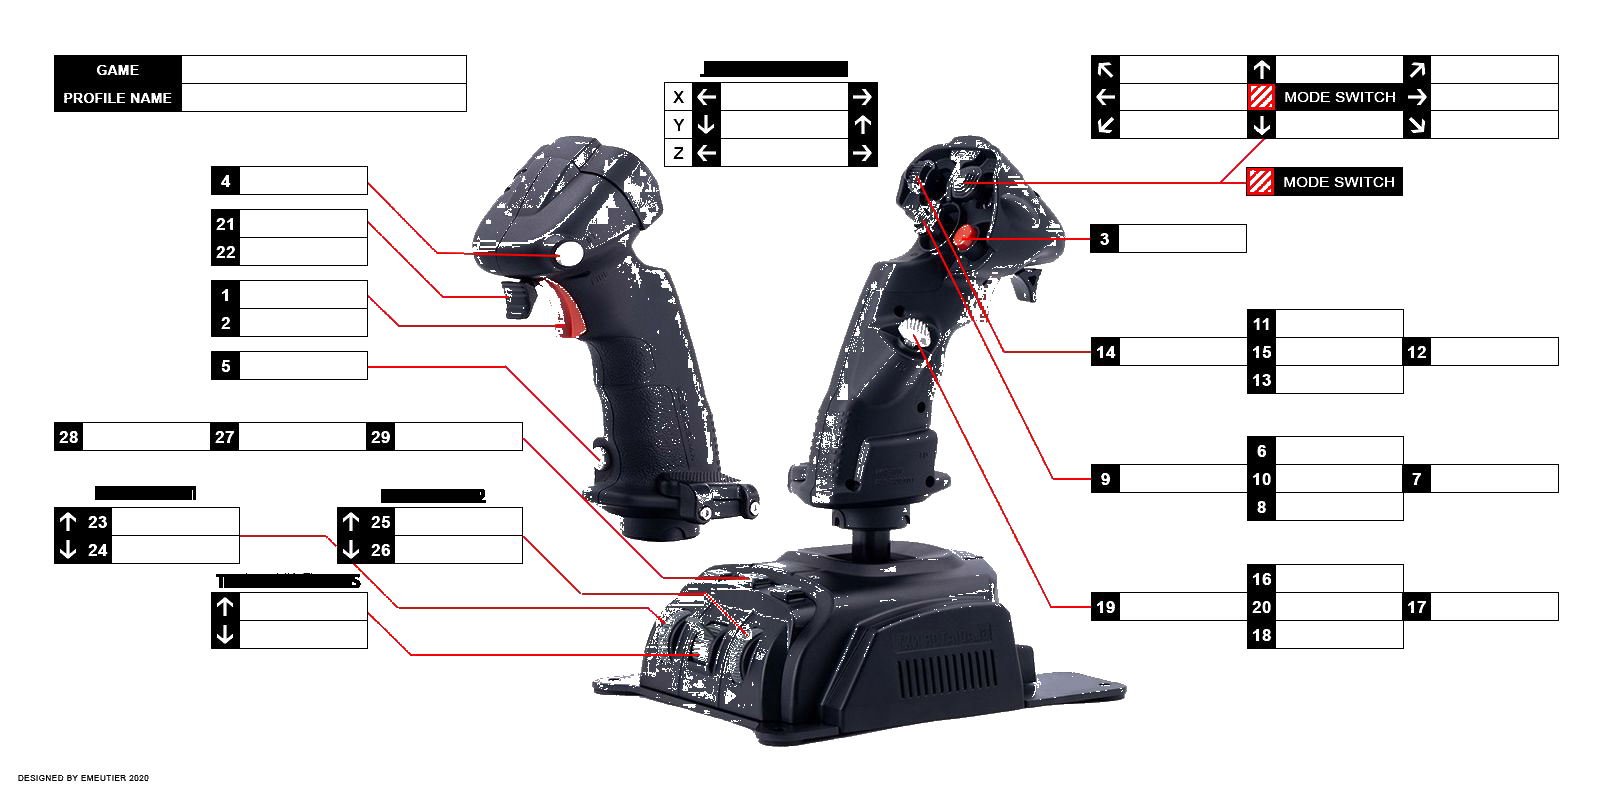
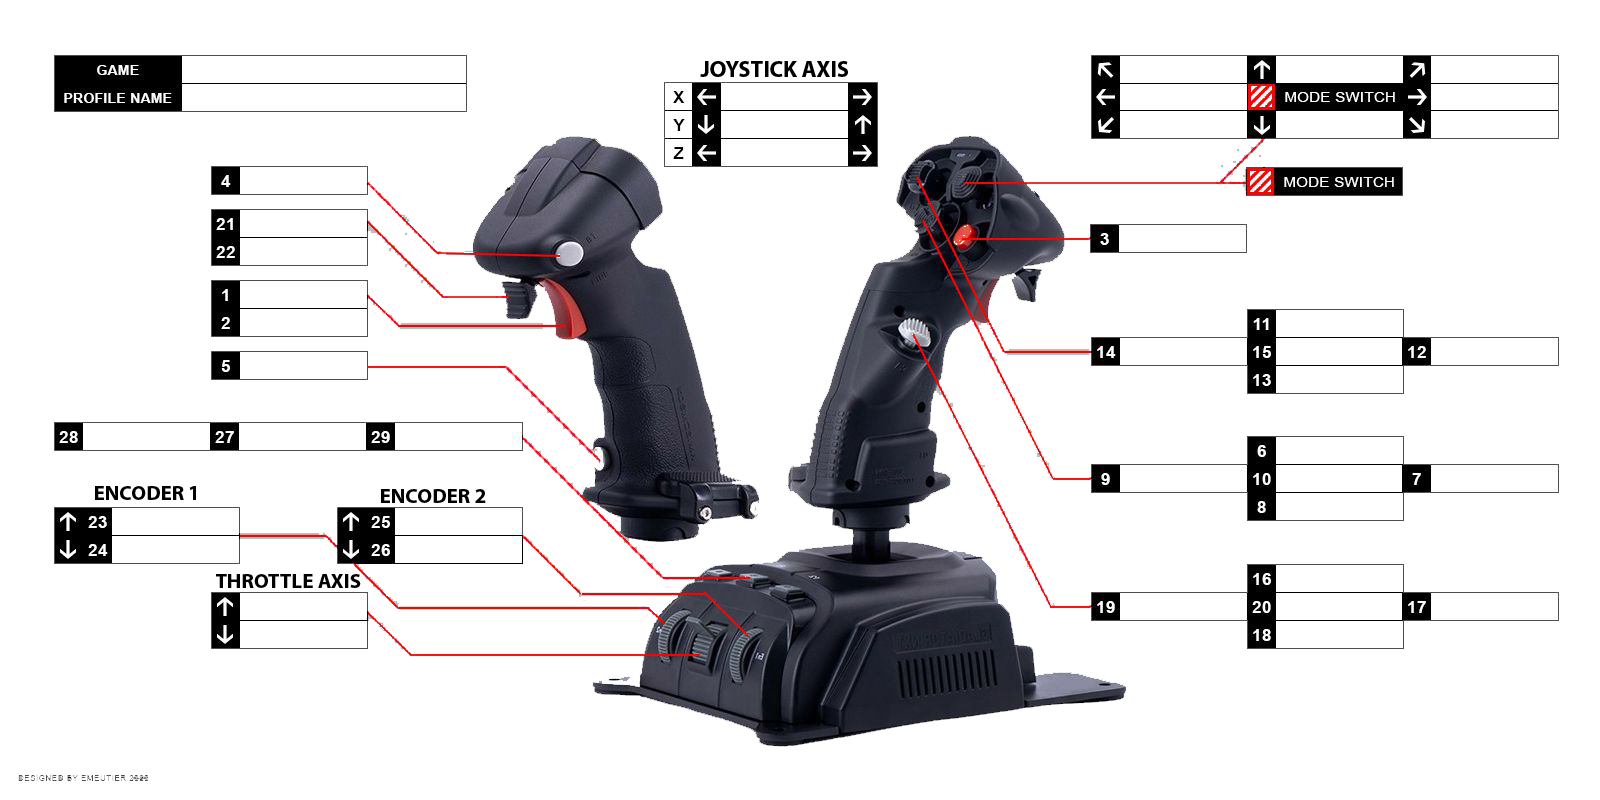
v0.7.40: VKB-Bilder — rote Linien scharf (weiße Artefakte entfernt)
Weiße JPEG-Artefaktpixel direkt neben roten Linienpixeln werden
kontextbewusst entfernt. Alle 4 VKB-Bilder bereinigt (NXT, NXT-L,
SCG-L, SCG-R). Label-Boxen bleiben unberührt.

diff --git a/fix-vkb-halos.js b/fix-vkb-halos.js
@@ -1,10 +1,8 @@
-// fix-vkb-halos.js — Weiße JPEG-Halos entlang roter Linien entfernen
-// Verbesserter Filter: G < 100 AND B < 100 als zusätzliche Bedingung für Rot,
-// damit aufgehellte Halo-Pixel (z.B. R=255, G=120, B=120) nicht mehr als "Rot" gelten.
-// Anschließend: 2-Pass-Halo-Dilation — helle Pixel neben roten werden ebenfalls entfernt.
+// fix-vkb-halos.js — Entfernt JPEG-Artefakte neben roten Linien in VKB-Bildern
+// Pass 1: pinkliche Halos (r>=2g, r>=2b, g>100 oder b>100)
+// Pass 2: weiße/hellgraue Artefaktpixel direkt neben echten roten Pixeln
 
 const { Jimp } = require('jimp');
-const path = require('path');
 
 const IMAGES = [
   'assets/vkb-gladiator-nxt.png',
@@ -13,30 +11,8 @@ const IMAGES = [
   'assets/vkb-gladiator-scg-r.png',
 ];
 
-function getSat(r, g, b) {
-  const max = Math.max(r, g, b);
-  const min = Math.min(r, g, b);
-  return max === 0 ? 0 : (max - min) / max;
-}
-
-function shouldKeep(r, g, b) {
-  const max = Math.max(r, g, b);
-
-  // Dunkel: Joystick-Gehäuse, schwarze Linien
-  if (max <= 80) return true;
-
-  // Dunkelgrau: Joystick-Körper, Schatten
-  const sat = getSat(r, g, b);
-  if (max < 175 && sat < 0.18) return true;
-
-  // Rot: echte rote Linien/Punkte
-  // Strenger als vorher: G < 100 UND B < 100 verhindert rosa Halo-Pixel
-  if (r >= 2 * g && r >= 2 * b && g < 100 && b < 100) return true;
-
-  // Reinweiß: z.B. weiße Label-Kästen auf dem Template
-  if (r >= 242 && g >= 242 && b >= 242) return true;
-
-  return false;
+function isHalo(r, g, b) {
+  return r >= 2 * g && r >= 2 * b && (g > 100 || b > 100);
 }
 
 async function processImage(filePath) {
@@ -44,61 +20,47 @@ async function processImage(filePath) {
   const image = await Jimp.read(filePath);
   const { width, height, data } = image.bitmap;
 
-  // Pass 1: Pixel-Filter
-  const keepMask = new Uint8Array(width * height); // 1 = behalten, 0 = transparent
-  const isRedPixel = new Uint8Array(width * height);
-
+  // Pass 1: pinkliche Halos
+  let pass1 = 0;
   image.scan(0, 0, width, height, (x, y, idx) => {
-    const r = data[idx];
-    const g = data[idx + 1];
-    const b = data[idx + 2];
-
-    if (shouldKeep(r, g, b)) {
-      keepMask[y * width + x] = 1;
-      // Rot-Pixel für Pass 2 markieren
-      if (r >= 2 * g && r >= 2 * b && g < 100 && b < 100 && Math.max(r,g,b) > 80) {
-        isRedPixel[y * width + x] = 1;
-      }
+    if (data[idx + 3] === 0) return;
+    const r = data[idx], g = data[idx + 1], b = data[idx + 2];
+    if (isHalo(r, g, b)) {
+      data[idx + 3] = 0;
+      pass1++;
     }
   });
 
-  // Pass 2: Halo-Dilation — helle Pixel in Radius 2 um rote Pixel entfernen
-  const haloMask = new Uint8Array(width * height);
-  const RADIUS = 2;
+  // Pass 2: weiße Artefakte neben echten roten Pixeln
+  // Erst rote Pixel markieren (nach Pass 1)
+  const isRed = new Uint8Array(width * height);
+  for (let i = 0; i < data.length; i += 4) {
+    const r = data[i], g = data[i + 1], b = data[i + 2], a = data[i + 3];
+    if (a > 0 && r >= 2 * g && r >= 2 * b && g < 100 && b < 100 && Math.max(r, g, b) > 80)
+      isRed[i / 4] = 1;
+  }
+
+  let pass2 = 0;
   for (let y = 0; y < height; y++) {
     for (let x = 0; x < width; x++) {
-      if (!isRedPixel[y * width + x]) continue;
-      for (let dy = -RADIUS; dy <= RADIUS; dy++) {
-        for (let dx = -RADIUS; dx <= RADIUS; dx++) {
-          const nx = x + dx, ny = y + dy;
-          if (nx < 0 || nx >= width || ny < 0 || ny >= height) continue;
-          const ni = ny * width + nx;
-          if (!isRedPixel[ni]) haloMask[ni] = 1;
-        }
+      const idx = (y * width + x) * 4;
+      if (data[idx + 3] === 0) continue;
+      const r = data[idx], g = data[idx + 1], b = data[idx + 2];
+      if (!(r > 200 && g > 200 && b > 200)) continue; // kein heller Pixel
+      // Hat dieser Pixel einen roten 4-Nachbarn?
+      const neighbors = [[x - 1, y], [x + 1, y], [x, y - 1], [x, y + 1]];
+      const adjRed = neighbors.some(([nx, ny]) =>
+        nx >= 0 && nx < width && ny >= 0 && ny < height && isRed[ny * width + nx]
+      );
+      if (adjRed) {
+        data[idx + 3] = 0;
+        pass2++;
       }
     }
   }
 
-  // Pass 2 anwenden: helle Pixel (Luminanz > 160) in der Halo-Zone transparent machen
-  image.scan(0, 0, width, height, (x, y, idx) => {
-    const i = y * width + x;
-    if (!keepMask[i]) {
-      data[idx + 3] = 0;
-      return;
-    }
-    if (haloMask[i]) {
-      const r = data[idx], g = data[idx + 1], b = data[idx + 2];
-      const luminance = 0.299 * r + 0.587 * g + 0.114 * b;
-      if (luminance > 160) {
-        data[idx + 3] = 0;
-        return;
-      }
-    }
-    data[idx + 3] = 255;
-  });
-
   await image.write(filePath);
-  console.log(`  ✓ gespeichert`);
+  console.log(`  ✓ Pass 1: ${pass1} pinklich, Pass 2: ${pass2} weiß — gespeichert`);
 }
 
 (async () => {

diff --git a/index.html b/index.html
@@ -895,11 +895,14 @@
 <div id="statusbar">STATUS: <span id="statmsg">Bereit</span> &nbsp;|&nbsp; Geändert: <span id="changed-count">0</span> &nbsp;|&nbsp; Version: <span id="app-version"></span> &nbsp;|&nbsp; Update: <span id="update-status">prüfen...</span></div>
 
 <script>
-const APP_VERSION = 'v0.7.39';
+const APP_VERSION = 'v0.7.40';
 
 const CHANGELOG_DATA = [
+  { version: 'v0.7.40', date: '2026-06-08', entries: [
+    'VKB-Bilder: Rote Linien jetzt scharf — alle weißen JPEG-Artefaktpixel direkt neben den Linien entfernt'
+  ]},
   { version: 'v0.7.39', date: '2026-06-08', entries: [
-    'VKB-Bilder: Weiße JPEG-Halos entlang der roten Linien entfernt — schärferer Rot-Filter (G < 100 & B < 100) + Halo-Dilation'
+    'VKB-Bilder: Pinkliche JPEG-Halos entlang der roten Linien entfernt (erste Säuberungsrunde)'
   ]},
   { version: 'v0.7.38', date: '2026-06-08', entries: [
     'Versionshistorie jetzt als eigener Tab „📄 Versionen" — übersichtlicher als im Hilfe-Tab'

diff --git a/ROADMAP.md b/ROADMAP.md
@@ -1,6 +1,6 @@
 # Roadmap
 
-Aktuelle Version: `v0.7.39`
+Aktuelle Version: `v0.7.40`
 
 ## Zielbild
 
@@ -113,4 +113,5 @@ Aktueller Fokus: öffentliche Tests, Feedback sammeln und weitere Stick-Vorlagen
 | v0.7.36 | SC Import: manuelle Seiten-Zuweisung bei unbekannten Stick-Namen (z. B. vJoy) per Dialog ✓ |
 | v0.7.37 | „Was ist neu"-Popup + „🆕 Neuigkeiten"-Button + Versionshistorie im Hilfe-Tab ✓ |
 | v0.7.38 | Versionshistorie als eigener Tab „📄 Versionen" statt im Hilfe-Tab ✓ |
-| v0.7.39 | VKB-Bilder: Weiße JPEG-Halos entlang roter Linien entfernt (schärferer Rot-Filter + Halo-Dilation) ✓ |
+| v0.7.39 | VKB-Bilder: Pinkliche JPEG-Halos entlang roter Linien entfernt (schärferer Rot-Filter G < 100 & B < 100) ✓ |
+| v0.7.40 | VKB-Bilder: Rote Linien scharf — weiße Artefaktpixel neben roten Linienpixeln kontextbewusst entfernt ✓ |

diff --git a/CHANGELOG.md b/CHANGELOG.md
@@ -4,11 +4,17 @@ Alle wichtigen Änderungen an diesem Projekt werden hier dokumentiert.
 
 Das Projekt nutzt SemVer: `MAJOR.MINOR.PATCH`.
 
+## v0.7.40 - 2026-06-08
+
+### Behoben
+
+- VKB-Bilder: Rote Linien jetzt scharf — weiße JPEG-Artefaktpixel direkt neben roten Pixeln werden kontextbewusst entfernt (nur Pixel neben echten roten Linienpixeln, keine Label-Boxen betroffen)
+
 ## v0.7.39 - 2026-06-08
 
 ### Behoben
 
-- VKB-Bilder: Weiße JPEG-Halos entlang der roten Linien entfernt — schärferer Rot-Filter (G < 100 & B < 100) und 2-Pass-Halo-Dilation (Radius 2px)
+- VKB-Bilder: Pinkliche JPEG-Halos entlang der roten Linien entfernt (schärferer Rot-Filter: G < 100 & B < 100)
 
 ## v0.7.38 - 2026-06-08
 
